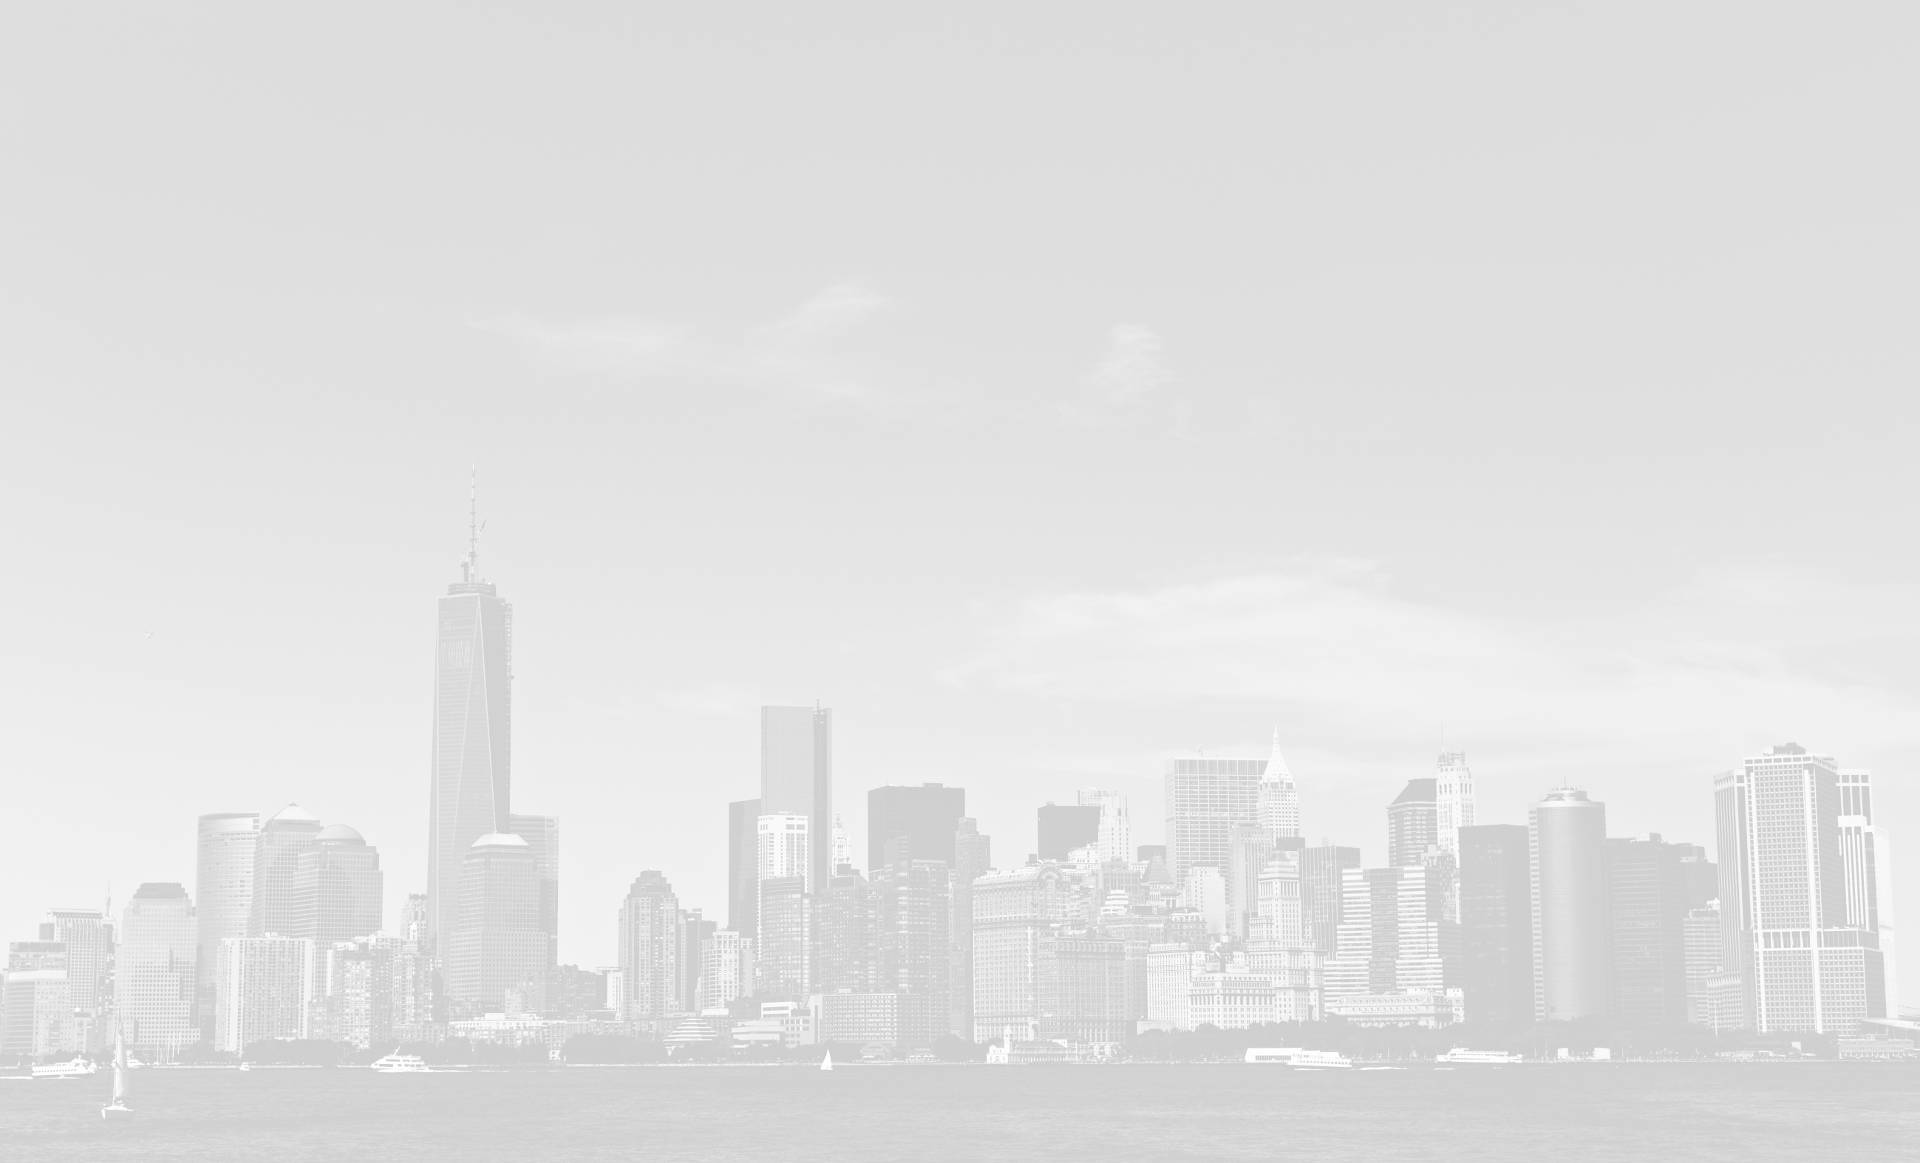
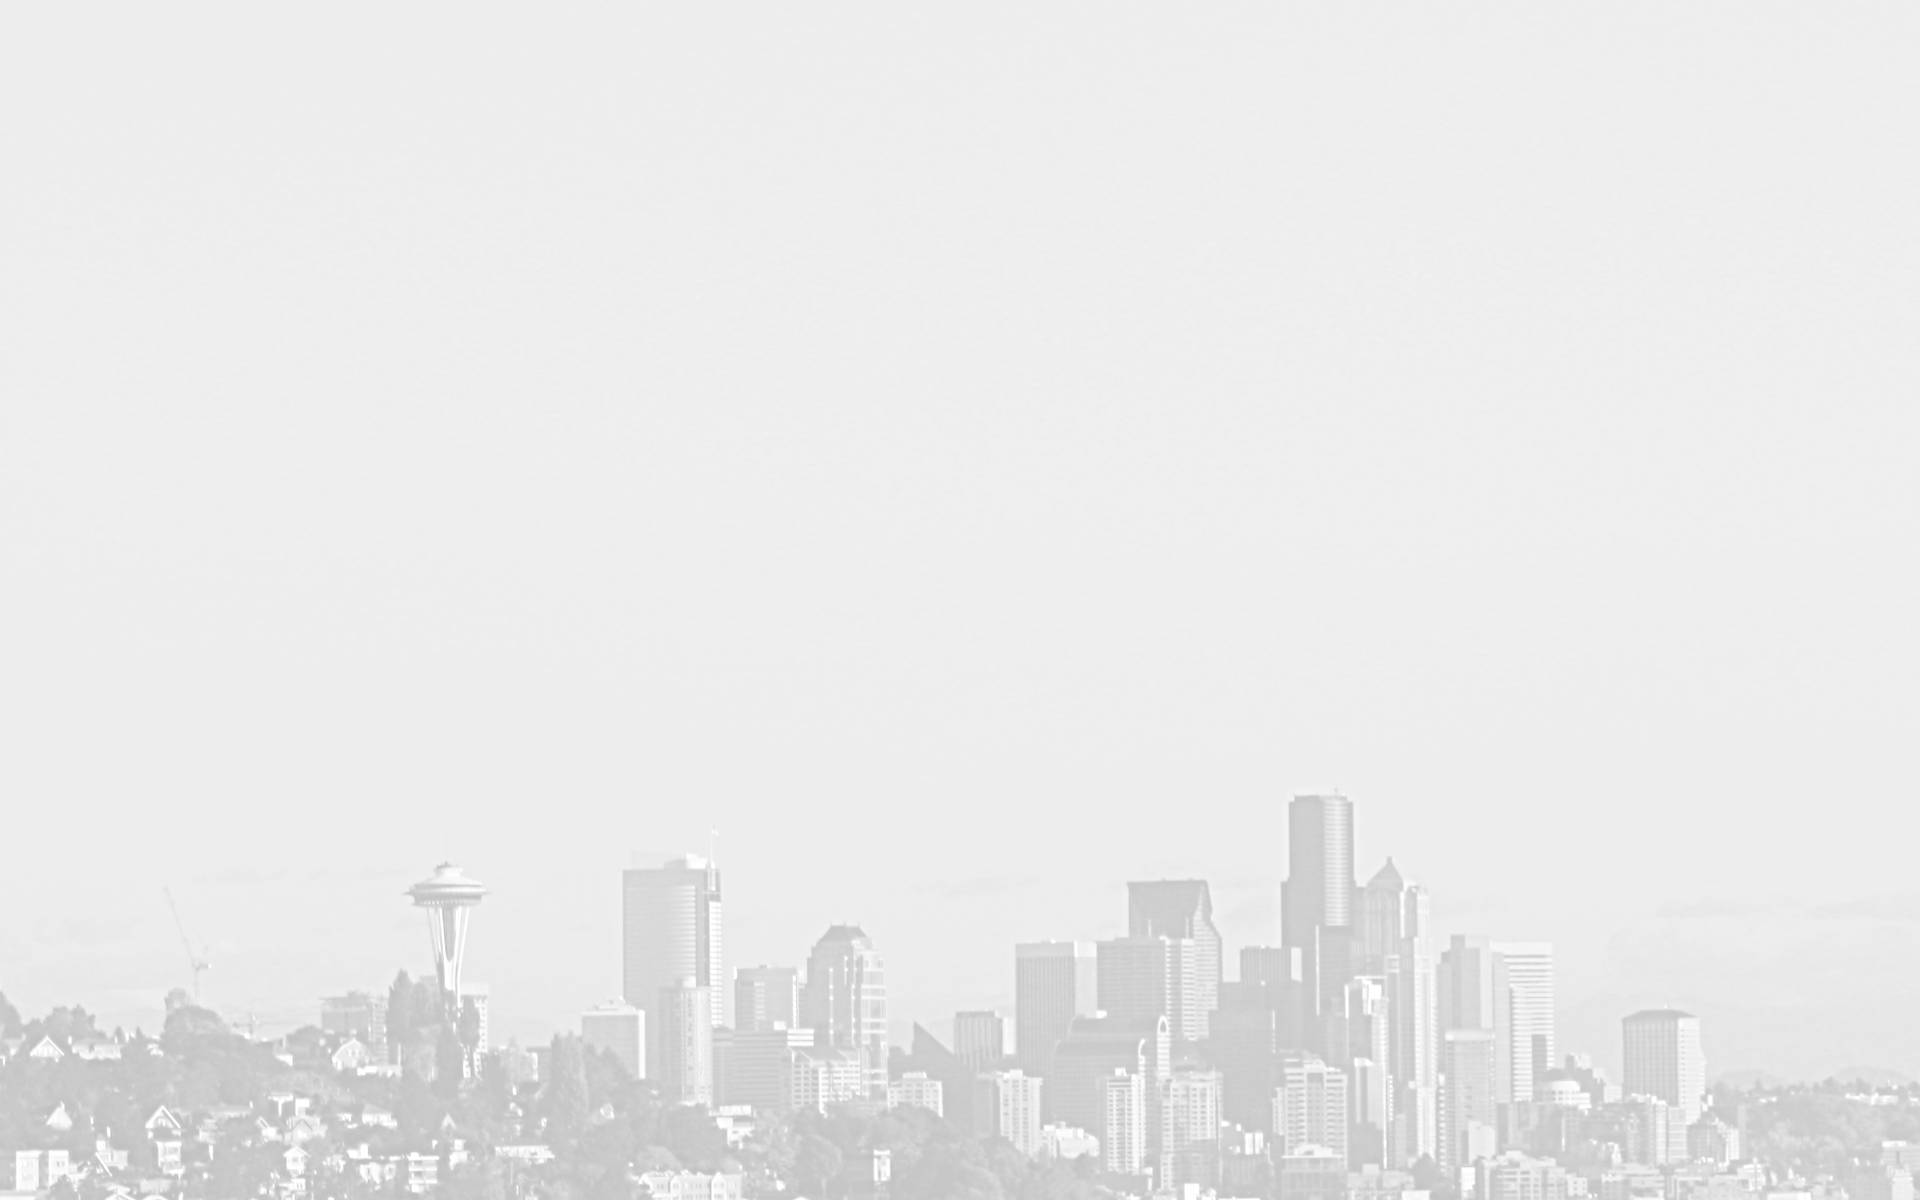
Changed bg to seattle, fixed footer and laura's picture

diff --git a/public/index.html b/public/index.html
@@ -79,6 +79,7 @@
 		</section>
 	</div>
 	<footer>
+		<div id="footer-bg"></div>
 		<a href="https://www.facebook.com/therepurposenetwork" target="_blank"><img class="social-icon" src="img/social/facebook.png"></a>
 		<a href="https://twitter.com/repurposenetwrk" target="_blank"><img class="social-icon" src="img/social/twitter.png"></a>
 		<a href="https://www.linkedin.com/company/6440031" target="_blank"><img class="social-icon" src="img/social/linkedin.png"></a>

diff --git a/public/index.css b/public/index.css
@@ -2,6 +2,7 @@ body {
 	margin: 0;
 	font-family: "Open Sans", Helvetica, sans-serif;
 	overflow-x: hidden;
+	background: #eee;
 }
 
 h1, h2, h3 {
@@ -89,8 +90,9 @@ h3 {
 
 #bg-img {
 	position: fixed;
+	width: 100%;
 	left: 0;
-	bottom: 0;
+	bottom: 50px;
 }
 
 .page {
@@ -360,6 +362,7 @@ footer {
 	bottom: 0;
 	left: 0;
 	text-align: center;
+	background: #ccc;
 }
 
 .social-icon {

diff --git a/public/index.js b/public/index.js
@@ -119,7 +119,7 @@ function goto_page(page) {
 		break;
 		case "team":
 			anim_pages(current_page, "team", current_page === "contact" ? "right" : "left");
-			$("#content-bg").animate({height:"700px"}, 100);
+			$("#content-bg").animate({height:"900px"}, 100);
 			current_page = "team";
 		break;
 		case "contact":
